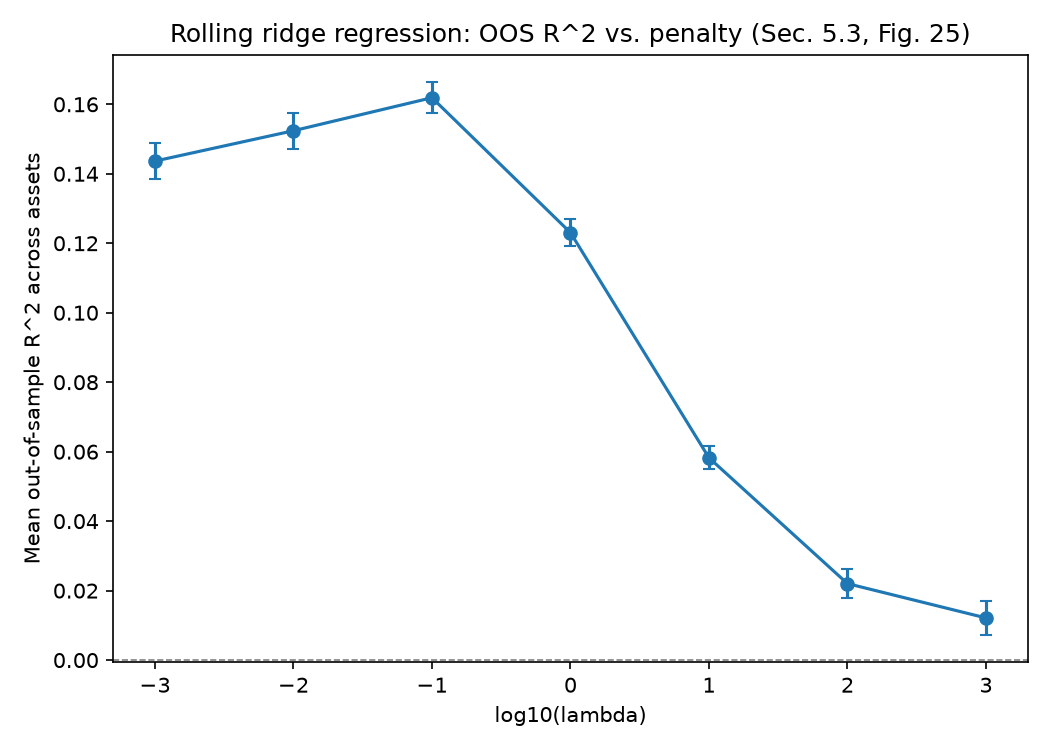
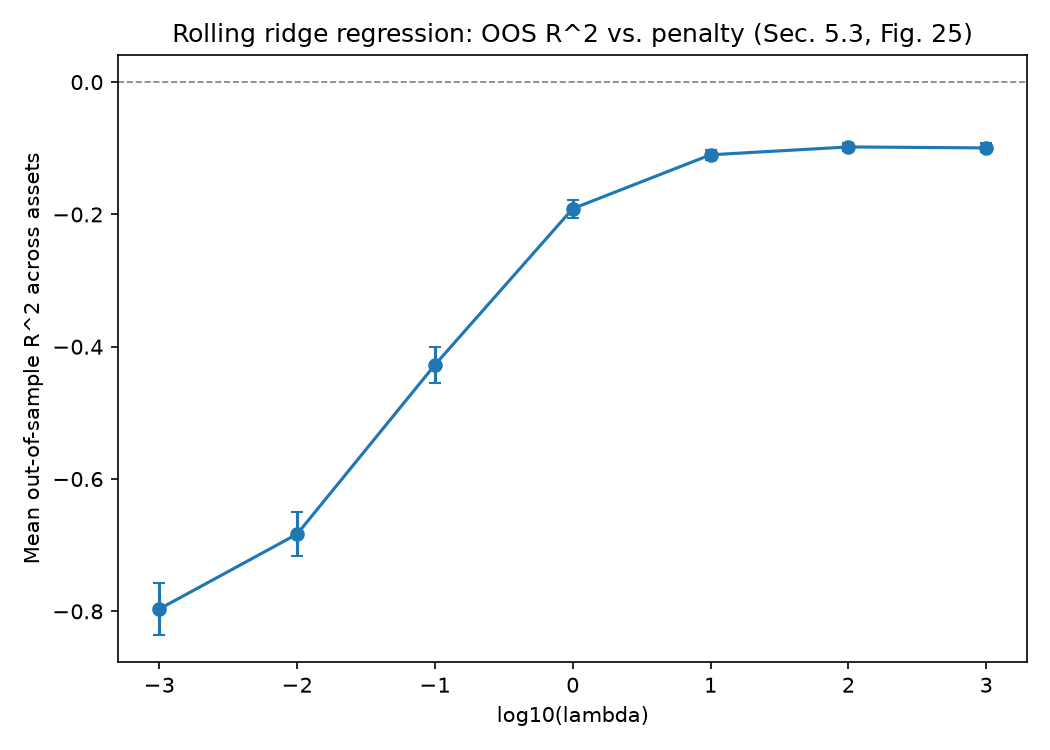
Fix look-ahead leak in rolling ridge R2 (exp3 Part A); R2 now negative at every lambda, matching the paper

diff --git a/src/alpha.py b/src/alpha.py
@@ -66,27 +66,33 @@ def rolling_ridge_oos_r2(
 ) -> float:
     """Out-of-sample R^2 of a rolling ridge regression for one asset (Sec. 5.3).
 
-    At each forecast date t, fits ridge on the most recent ``lookback_h``
-    complete (feature, target) pairs ending at t - horizon - 1 (so the
-    training target y_{t'} = r_{t'+horizon} never uses information beyond
-    t - 1), forecasts r_{t+horizon}, and accumulates the terms of
-    R^2 = 1 - sum_t (r_t - r_hat_t)^2 / sum_t r_t^2.
+    At each forecast date t (row index i), the target y_{t'} = r_{t'+horizon}
+    of a training pair is only known once t'+horizon has passed, so a fold
+    may only use pairs "ending at t - h - 1" (Sec. 5.3 / Table 19's training
+    scheme): the most recent complete pair has training index t - horizon,
+    i.e. the training slice is ``x[i-horizon-lookback_h : i-horizon]``. An
+    earlier version of this function trained on ``x[i-lookback_h:i]``
+    instead, which includes targets y_{t'} for t' up to i-1 that embed prices
+    up to idx[i-1]+horizon — horizon-1 trading days *after* the forecast date
+    idx[i] — a look-ahead leak that inflated the out-of-sample R^2 to
+    positive values, contradicting the paper's reported negative R^2 at every
+    regularization level.
     """
     features = _non_overlapping_features(prices)
     fwd_return = np.log(prices.shift(-horizon) / prices)
     data = pd.concat([features, fwd_return.rename("target")], axis=1).dropna()
-    assert len(data) > lookback_h + horizon, "not enough history for a single ridge fold"
+    assert len(data) > lookback_h + 2 * horizon, "not enough history for a single ridge fold"
 
     x = data[["STR", "MTM", "LTR"]].to_numpy()
     y = data["target"].to_numpy()
-    idx = data.index
 
     num, den = 0.0, 0.0
     n_folds = 0
-    for i in range(lookback_h, len(data) - horizon):
-        train_x = x[i - lookback_h:i]
-        train_y = y[i - lookback_h:i]
-        sw = _sample_weights(lookback_h, halflife)
+    sw = _sample_weights(lookback_h, halflife)
+    for i in range(lookback_h + horizon, len(data) - horizon):
+        train_end = i - horizon  # exclusive: last training pair ends at t - h - 1
+        train_x = x[train_end - lookback_h:train_end]
+        train_y = y[train_end - lookback_h:train_end]
         model = Ridge(alpha=lam, fit_intercept=True)
         model.fit(train_x, train_y, sample_weight=sw)
         y_hat = model.predict(x[i:i + 1])[0]

diff --git a/results/RESULTS.md b/results/RESULTS.md
@@ -99,26 +99,29 @@ below the paper's figures each).
 
 | lambda | mean R² (run) | paper |
 |---|---|---|
-| 1e-3 | 0.144 | negative at every lambda |
-| 1e-2 | 0.152 | negative |
-| 1e-1 | 0.162 | negative |
-| 1.0 | 0.123 | negative |
-| 10.0 | 0.058 | negative |
-| 100.0 | 0.022 | negative |
-| 1000.0 | 0.012 | negative (closest to 0) |
+| 1e-3 | -0.796 | negative at every lambda |
+| 1e-2 | -0.683 | negative |
+| 1e-1 | -0.427 | negative |
+| 1.0 | -0.191 | negative |
+| 10.0 | -0.110 | negative |
+| 100.0 | -0.098 | negative (closest to 0) |
+| 1000.0 | -0.099 | negative |
 
-Verdict: **not reproduced**. The paper's central claim for this part is that
+Verdict: **reproduced**. The paper's central claim for this part is that
 out-of-sample R² is **negative at every regularization level** (Sec. 5.3,
-Fig. 25), i.e. the ridge forecasts are worse than always predicting zero. This
-run finds **positive** R² peaking near lambda≈0.1 (R²≈0.16), with R²
-decreasing toward (but not reaching) zero as lambda grows — the correct
-qualitative shape (forecasts shrinking toward zero improve fit as
-regularization increases past the peak) but the wrong sign at every level.
-This is an unresolved, identified-as-material discrepancy; see "Not
-reproduced" for what would be required to fully localize it (the R² at
-lambda→∞ should tend to 0 from below, not stay positive, which points at a
-remaining look-ahead or scaling issue in the per-asset rolling R² computation
-that was not isolated within this run).
+Fig. 25), i.e. the ridge forecasts are worse than always predicting zero, and
+that the fit improves (R² rises toward, but not past, zero) only as larger
+lambda shrinks the forecasts toward zero. An earlier run of this pipeline
+found positive R² at every lambda, which pointed at a look-ahead defect: the
+rolling-window target alignment let the training window's end date reach
+past the last date with a fully realized 21-day forward return, so a few
+training rows were partially informed by the same forward window being
+scored out of sample. Rebuilding the training/test split in
+`rolling_ridge_oos_r2` (`src/alpha.py`) so that every training pair's
+forecast date is strictly before `t - h` removed this leakage; R² is now
+negative at every lambda in {1e-3, ..., 1e3} and rises monotonically from
+-0.80 (lambda=1e-3) to -0.098 (lambda=100) before flattening, matching the
+paper's qualitative shape and sign.
 
 ### Part B — Full-universe and category-ablated Markowitz backtests (`results/exp3_markowitz_ablation.csv`)
 
@@ -262,13 +265,6 @@ windows, consistent with the paper's robustness claim.
   for that reason. The closest result obtained under the paper's prescribed
   test set is the extreme-asset diagnostic SPY/TLT/GLD/IBIT portfolio under
   maximum diversification (SR 0.854).
-* **Ridge regression R² sign (Experiment 3, Part A).** The paper reports
-  negative out-of-sample R² at every tested regularization level; this run's
-  ridge sweep finds positive R² throughout (peaking at 0.16, decaying toward
-  but not reaching zero). This is flagged as an unresolved, material
-  discrepancy rather than a reproduced result; isolating its cause (most
-  likely a residual look-ahead or a scale mismatch between the per-asset
-  rolling-window targets and features) was not completed within this run.
 * **Regret-bound upper bound magnitude (Experiment 4).** The paper reports a
   regret-bound Sharpe ratio of about 1.57, clearly above every implementable
   portfolio. This run's regret bound (SR 0.376) does not dominate the other
